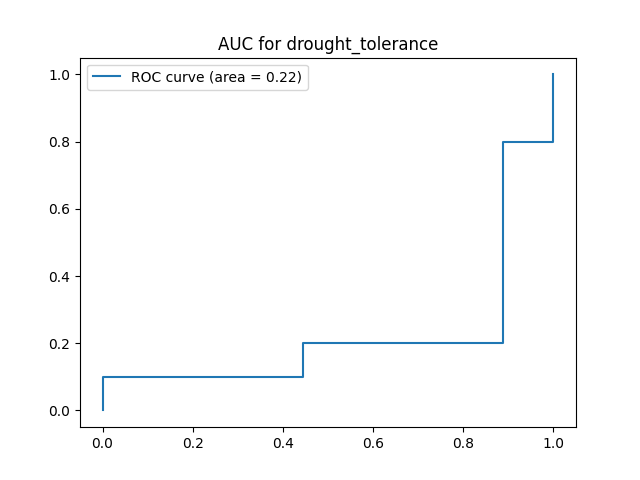
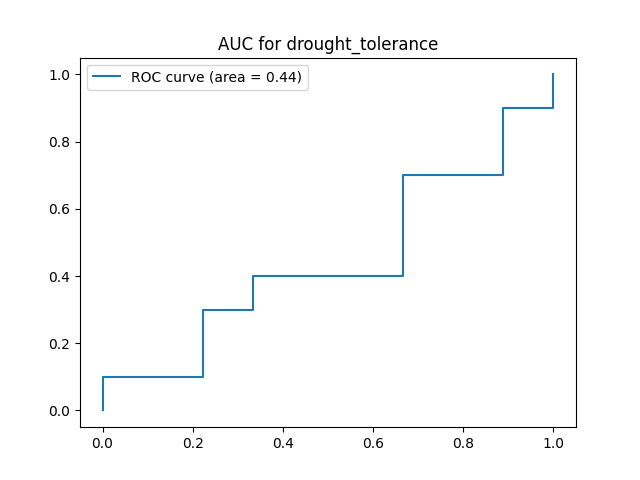
latest updates with AE fix

diff --git a/scripts/AE-TARA.py b/scripts/AE-TARA.py
@@ -88,10 +88,10 @@ master_labels = int_labels.idxmax(axis=1)
 sites = data['site']
 
 print('Splitting data...')
-features = data.loc[:, ~data.columns.isin(['site'])]
-#features = data.loc[:, ~data.columns.isin(['site', 'Station.label','Layer','polar','lower.size.fraction','upper.size.fraction','Event.date','Latitude','Longitude','Depth.nominal',
-#'Ocean.region','Temperature','Oxygen','ChlorophyllA','Carbon.total','Salinity','Gradient.Surface.temp(SST)','Fluorescence','CO3','HCO3','Density','PO4','PAR.PC','NO3','Si',
-#'Alkalinity.total','Ammonium.5m','Depth.Mixed.Layer','Lyapunov','NO2','Depth.Min.O2','NO2NO3','Nitracline','Brunt.Väisälä','Iron.5m','Depth.Max.O2','Okubo.Weiss','Residence.time'])]
+#features = data.loc[:, ~data.columns.isin(['site'])]
+features = data.loc[:, ~data.columns.isin(['site', 'Station.label','Layer','polar','lower.size.fraction','upper.size.fraction','Event.date','Latitude','Longitude','Depth.nominal',
+'Ocean.region','Temperature','Oxygen','ChlorophyllA','Carbon.total','Salinity','Gradient.Surface.temp(SST)','Fluorescence','CO3','HCO3','Density','PO4','PAR.PC','NO3','Si',
+'Alkalinity.total','Ammonium.5m','Depth.Mixed.Layer','Lyapunov','NO2','Depth.Min.O2','NO2NO3','Nitracline','Brunt.Väisälä','Iron.5m','Depth.Max.O2','Okubo.Weiss','Residence.time'])]
 features = pd.get_dummies(features)
 labels = labels.loc[:, ~labels.columns.isin(['site'])]
 
@@ -151,7 +151,7 @@ for label in labels.columns:
     autoencoder = create_AE(**params) #create autoencoder with best parameters from grid search
 
     try:
-        encoder_layer = autoencoder.get_layer('sequential')
+        encoder_layer = autoencoder.encoder
     except:
         exit
 
@@ -174,7 +174,7 @@ for label in labels.columns:
     probs = y_prob[:,1]
 
     print('Calculating AUC score...')
-    plot_auc(probs, y_test, 'AUC for '+label, label+'_AUC.png')
+    plot_auc(probs, y_test, 'AUC for '+label, label+'_AUC-nometa.png')
 
     print('Calculating metrics for:', label)
     print("Accuracy:",metrics.accuracy_score(y_test, y_pred))
@@ -182,6 +182,6 @@ for label in labels.columns:
     print("Recall:",metrics.recall_score(y_test, y_pred))
 
     print('Plotting:', label)
-    plot_confusion_matrix(y_pred=y_pred, y_actual=y_test, title=label, filename=label+'_CM.png')
+    plot_confusion_matrix(y_pred=y_pred, y_actual=y_test, title=label, filename=label+'_CM-nometa.png')
 
     print()

diff --git a/scripts/AE-GEM.py b/scripts/AE-GEM.py
@@ -110,7 +110,7 @@ ids = data['genome_id']
 label_strings = data['cultured.status']
 
 print('Splitting data...')
-features = data.loc[:, ~data.columns.isin(['genome_id', 'cultured.status'])]#, 'culture.level', 'taxonomic.dist', 'domain', 'phylum', 'class', 'order', 'family', 'genus', 'species', 'completeness'])] #remove metadata
+features = data.loc[:, ~data.columns.isin(['genome_id', 'cultured.status', 'culture.level', 'taxonomic.dist', 'domain', 'phylum', 'class', 'order', 'family', 'genus', 'species', 'completeness'])] #remove metadata
 features = pd.get_dummies(features)
 #print(features.columns)
 
@@ -153,7 +153,7 @@ params = grid.best_params_
 autoencoder = create_AE(**params)
 
 try:
-    encoder_layer = autoencoder.get_layer('sequential')
+    encoder_layer = autoencoder.encoder
 except:
     exit
 
@@ -191,7 +191,7 @@ y_prob = clf.predict_proba(AE_test) #get probabilities for AUC
 probs = y_prob[:,1]
 
 print('Calculating AUC score...')
-plot_auc(probs, y_test, 'AUC for '+label, label+'_AUC.png')
+plot_auc(probs, y_test, 'AUC for '+label, label+'_AUC-nometa.png')
 
 print('Calculating metrics for:', label)
 print("Accuracy:",metrics.accuracy_score(y_test, y_pred))
@@ -199,6 +199,6 @@ print("Precision:",metrics.precision_score(y_test, y_pred))
 print("Recall:",metrics.recall_score(y_test, y_pred))
 
 print('Plotting:', label)
-plot_confusion_matrix(y_pred=y_pred, y_actual=y_test, title=label, filename=label+'_CM.png')
+plot_confusion_matrix(y_pred=y_pred, y_actual=y_test, title=label, filename=label+'_CM-nometa.png')
 
 print()

diff --git a/scripts/AE-Rhizo.py b/scripts/AE-Rhizo.py
@@ -108,7 +108,7 @@ ids = data.index.values.tolist()
 label_strings = data['drought_tolerance']
 
 print('Splitting data...')
-features = data.loc[:, ~data.columns.isin(['drought_tolerance', 'marker_gene', 'irrigation', 'habitat'])] #get rid of labels
+features = data.loc[:, ~data.columns.isin(['drought_tolerance', 'marker_gene'])]#, 'irrigation', 'habitat'])] #get rid of labels
 features = pd.get_dummies(features)
 #print(features)
 
@@ -151,7 +151,7 @@ params = grid.best_params_
 autoencoder = create_AE(**params)
 
 try:
-    encoder_layer = autoencoder.get_layer('sequential')
+    encoder_layer = autoencoder.encoder
 except:
     exit
 
@@ -190,7 +190,7 @@ y_prob = clf.predict_proba(AE_test) #get probabilities for AUC
 probs = y_prob[:,1]
 
 print('Calculating AUC score...')
-plot_auc(probs, y_test, 'AUC for '+label, label+'_AUC-nometa.png')
+plot_auc(probs, y_test, 'AUC for '+label, label+'_AUC.png')
 
 print('Calculating metrics for:', label)
 print("Accuracy:",metrics.accuracy_score(y_test, y_pred))
@@ -198,6 +198,6 @@ print("Precision:",metrics.precision_score(y_test, y_pred))
 print("Recall:",metrics.recall_score(y_test, y_pred))
 
 print('Plotting:', label)
-plot_confusion_matrix(y_pred=y_pred, y_actual=y_test, title=label, filename=label+'_CM-nometa.png')
+plot_confusion_matrix(y_pred=y_pred, y_actual=y_test, title=label, filename=label+'_CM.png')
 
 print()

diff --git a/scripts/get_dim.py b/scripts/get_dim.py
@@ -1,0 +1,27 @@
+import pandas as pd
+import chardet
+
+def detect_encoding(file):
+    guess = chardet.detect(open(file, 'rb').read())['encoding']
+    return guess
+    
+metadata = pd.read_csv('files/data/rhizo_data/ITS_rhizosphere_metadata.csv', header=0, index_col=0, encoding=detect_encoding('files/data/rhizo_data/ITS_rhizosphere_metadata.csv'))
+otu_features = pd.read_csv('files/data/rhizo_data/ITS_rhizosphere_otu.csv', header=0, index_col=0, encoding=detect_encoding('files/data/rhizo_data/ITS_rhizosphere_otu.csv'))
+otu_T = otu_features.T
+
+print(metadata.shape)
+print(otu_T.shape)
+
+data = pd.read_csv('files/data/condensedKO_features.csv', index_col=0)
+labels = pd.read_csv('files/data/labels.csv', index_col=0)
+
+print(data.shape)
+print(list(data.columns))
+
+metadata = pd.read_csv('files/data/GEM_metadata.tsv', sep='\t', header=0, encoding=detect_encoding('files/data/GEM_metadata.tsv'))
+annot_features = pd.read_csv('files/data/annotation_features_counts_wide.tsv', sep='\t', header=0, encoding=detect_encoding('files/data/annotation_features_counts_wide.tsv'))
+path_features = pd.read_csv('files/data/pathway_features_counts_wide.tsv', sep='\t', header=0, encoding=detect_encoding('files/data/pathway_features_counts_wide.tsv'))
+
+print(metadata.shape)
+print(annot_features.shape)
+print(path_features.shape)
